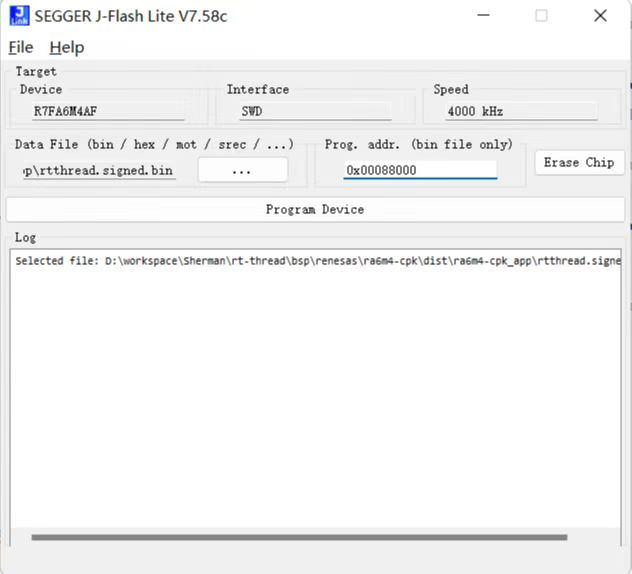
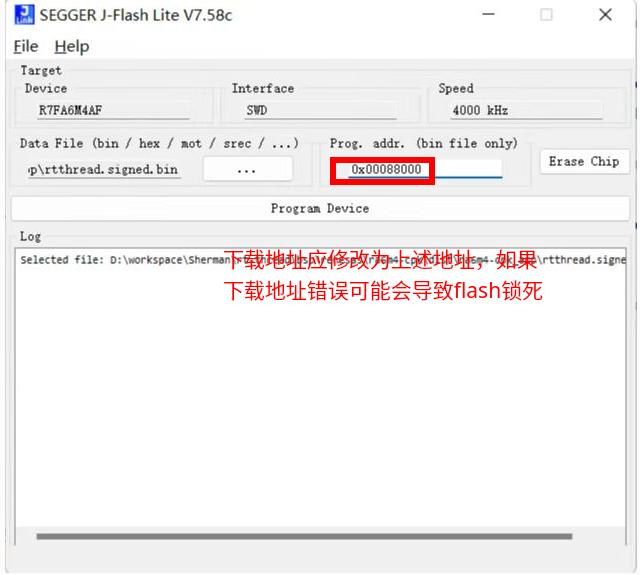
[fix]：修改部分readme

diff --git a/project_2/ra/fsp/src/rm_mcuboot_port/rm_mcuboot_port_sign.py b/project_2/ra/fsp/src/rm_mcuboot_port/rm_mcuboot_port_sign.py
@@ -3,8 +3,8 @@ import shutil
 import subprocess
 import sys
 os.environ['MCUBOOT_IMAGE_VERSION'] = '1.0.0'
-os.environ['MCUBOOT_IMAGE_SIGNING_KEY'] = r'D:\workspace\Sherman\rs_mcuboot\ra6m4_boot\ra\mcu-tools\MCUboot\root-ec-p256.pem'
-os.environ['MCUBOOT_APP_BIN_CONVERTER'] = r'D:\workspace\Sherman\env_released_1.2.3_gcc10_python2\tools\gnu_gcc\arm_gcc\mingw\bin\arm-none-eabi-objcopy.exe'
+os.environ['MCUBOOT_IMAGE_SIGNING_KEY'] = r'{boot_dir}\ra6m4_boot\ra\mcu-tools\MCUboot\root-ec-p256.pem'
+os.environ['MCUBOOT_APP_BIN_CONVERTER'] = r'{tool_chain_dir}\tools\gnu_gcc\arm_gcc\mingw\bin\arm-none-eabi-objcopy.exe'
 # Determine root of bootloader project to find related files
 boot_project_root = os.path.abspath(os.path.join(os.path.abspath(os.path.dirname(__file__)), '../../../..'))
 

diff --git a/project_2/README.md b/project_2/README.md
@@ -31,11 +31,11 @@ mcuboot 支持多种升级方式，如 overwrite swap等，这里选用overwrite
 * 注：这里只是列出了当前示例工程中用到的flash的分区信息，更详细的内容可以在 {project}/ra_cfg/mcu-tools/include/sysflash/sysflash.h 中查看
 
 ## APP构建
-将BSP作为APP为例（GCC工具链情况下，MDK类似），在构建APP时需要做以下修改：
+将BSP作为APP为例（GCC工具链情况下，MDK类似），在构建APP时需要做以下修改，修改后需要编译构建APP镜像：
 * 链接脚本
 ```
 # {app}/script/memory_regions.ld
-FLASH_START = 0x00010200;
+FLASH_START = 0x00010200; # 由于镜像的前0x200是镜像头，因此实际app的代码是从0x00010200开始链接的
 FLASH_LENGTH = 0x00077e00;
 ```
 
@@ -51,12 +51,12 @@ _RA_BOOT_IMAGE
 在 {mcuboot_dir}/ra/fsp/src/rm_mcuboot_port/rm_mcuboot_port_sign.py中，填入相关路径：
 ```
 # 密钥文件
-os.environ['MCUBOOT_IMAGE_SIGNING_KEY'] = r'D:\workspace\Sherman\rs_mcuboot\ra6m4_boot\ra\mcu-tools\MCUboot\root-ec-p256.pem'
+os.environ['MCUBOOT_IMAGE_SIGNING_KEY'] = r'{rs_mcuboot}\rs_mcuboot\ra6m4_boot\ra\mcu-tools\MCUboot\root-ec-p256.pem'
 # arm-none-eabi-objcopy 路径
-os.environ['MCUBOOT_APP_BIN_CONVERTER'] = r'D:\workspace\Sherman\env_released_1.2.3_gcc10_python2\tools\gnu_gcc\arm_gcc\mingw\bin\arm-none-eabi-objcopy.exe'
+os.environ['MCUBOOT_APP_BIN_CONVERTER'] = r'{env}\tools\gnu_gcc\arm_gcc\mingw\bin\arm-none-eabi-objcopy.exe'
 ```
 #### step 2 执行签名命令
-将下面命令的mcuboot_dir，app_dir换成实际的MCUBOOT，APP路径即可
+在任意路径下启动命令行，执行下述命令即可，注意将下面命令的mcuboot_dir，app_dir换成实际的MCUBOOT，APP路径
 ~~~
 python {mcuboot_dir}\ra\fsp\src\rm_mcuboot_port\rm_mcuboot_port_sign.py sign --header-size 0x200 --align 128 --max-align 128 --slot-size 0x78000 --max-sectors 15 --overwrite-only --confirm --pad-header {app_dir}\rtthread.elf {app_dir}\rtthread.signed.bin
 ~~~
@@ -66,7 +66,7 @@ python {mcuboot_dir}\ra\fsp\src\rm_mcuboot_port\rm_mcuboot_port_sign.py sign --h
 
 ![download1](docs/picture/app_download1.jpg)
 
-![download2](docs/picture/app_download1.jpg)
+![download2](docs/picture/app_download2.jpg)
 
 ![mcuboot](docs/picture/mcuboot.png)
 
